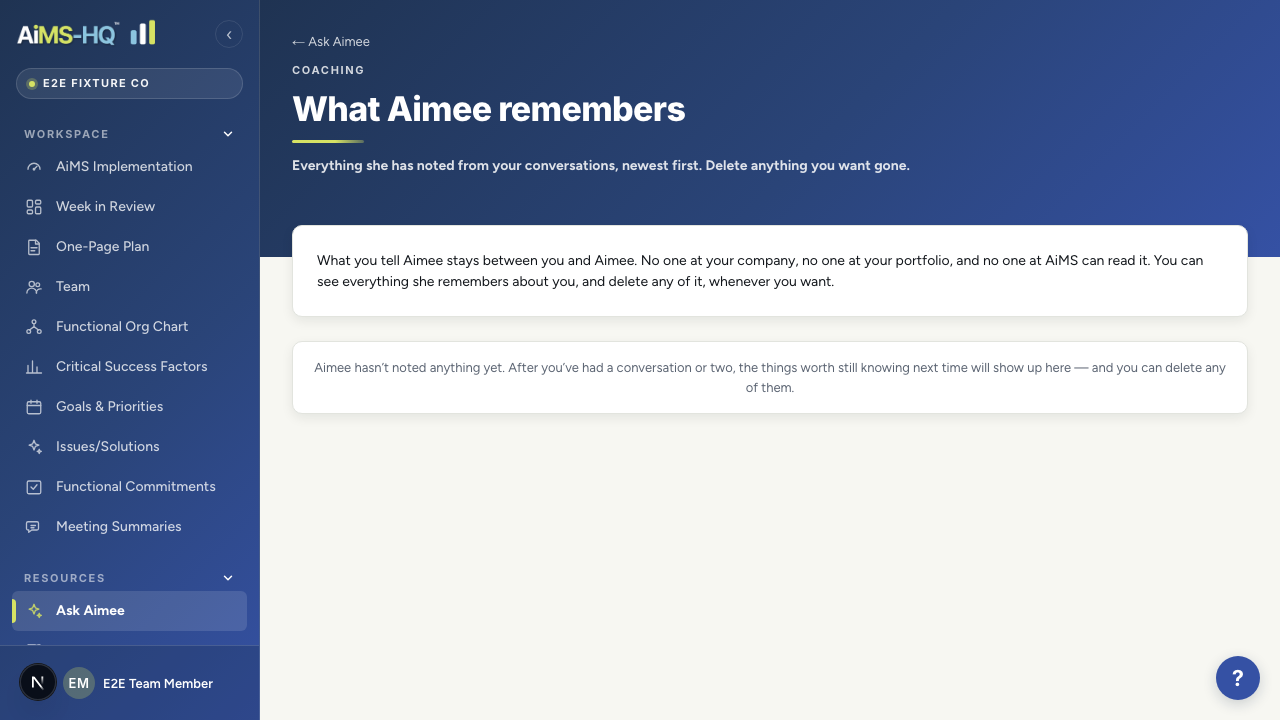
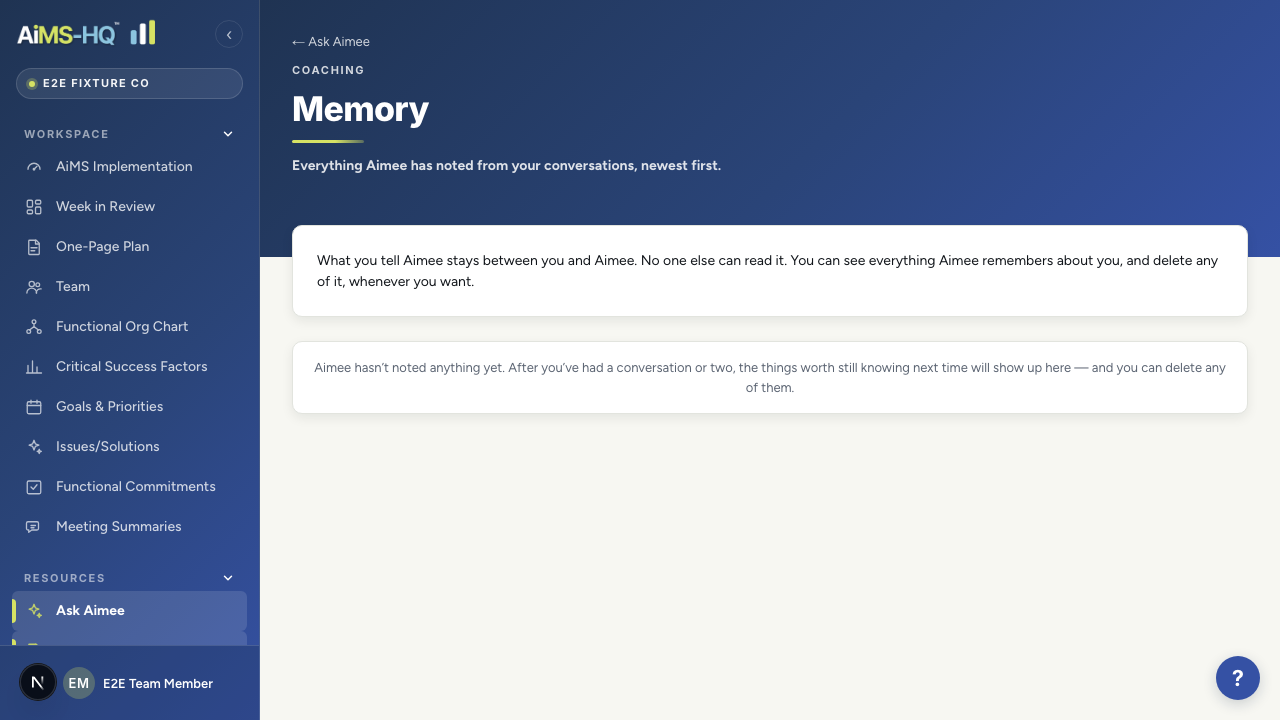
The memory page is called Memory, in both places (#138)
The nav item said "Memory" and the page it opened said "What Aimee
remembers" — two names for one thing, which the help then had to
explain the relationship between. One name now.

"Memory" is a container name rather than a description of today's
contents, so more can go under it later without the label going
stale. The subtitle carries the description instead: "Everything
Aimee has noted from your conversations, newest first."

Changed everywhere it appeared: the page title and metadata, the help
doc's title and heading, and the E2E's heading assertion. One
reference survives on purpose, in the sidebar comment, recording why
the name moved.

Verified in the browser: heading, subtitle, and the nav item all read
Memory, and the page still reaches from Resources.

Docs: spec records the rename and its reason; help/ask-aimee.memory.md
retitled.

Claude-Session: https://claude.ai/code/session_01Aa6y5sWGveSXR6oWcqu6oJ

diff --git a/src/app/(app)/ask-aimee/memory/page.tsx b/src/app/(app)/ask-aimee/memory/page.tsx
@@ -4,7 +4,7 @@ import { PageShell } from "@/components/ui/PageShell";
 import { MemoryList } from "./MemoryList";
 import styles from "./memory.module.css";
 
-// "What Aimee remembers" — the trust surface.
+// Memory — the trust surface.
 //
 // EVERY USER, ABOUT THEMSELVES ONLY. There is no route parameter for
 // whose memory to show and no role branch anywhere on this page:
@@ -17,7 +17,7 @@ import styles from "./memory.module.css";
 // No export. No share. No admin view. Those are not omissions to fill
 // in later: a page that could hand somebody's memory to a second
 // person would undo the thing this page exists to demonstrate.
-export const metadata = { title: "What Aimee remembers" };
+export const metadata = { title: "Memory" };
 
 export default async function CoachMemoryPage() {
   await requireProfile();
@@ -28,8 +28,8 @@ export default async function CoachMemoryPage() {
       backHref="/ask-aimee"
       backLabel="Ask Aimee"
       eyebrow="Coaching"
-      title="What Aimee remembers"
-      subtitle="Everything she has noted from your conversations, newest first."
+      title="Memory"
+      subtitle="Everything Aimee has noted from your conversations, newest first."
     >
       {/* The promise, in the same words as the help content. It sits
           at the top rather than the bottom because it is the reason

diff --git a/src/components/sidebar/Sidebar.tsx b/src/components/sidebar/Sidebar.tsx
@@ -131,12 +131,12 @@ const APP_ITEMS: readonly NavItem[] = [
       // button — too quiet for the page that answers "what does it
       // know about me, and can I delete it". A person should not have
       // to already know it exists to find it.
-      // "Memory" rather than "What Aimee remembers": short enough to
-      // sit beside Ask Aimee and Classroom without wrapping, and a
-      // container name rather than a description of today's contents,
-      // so more can be added under it without the label going stale.
-      // The page keeps the longer title — there it is the heading, and
-      // a heading can afford to be a sentence.
+      // "Memory": a container name rather than a description of
+      // today's contents, so more can be added under it without the
+      // label going stale. The page carries the same name — it was
+      // briefly "What Aimee remembers" there, which meant the nav item
+      // and the page it opened had different names and the help had to
+      // explain the relationship.
       {
         kind: "link",
         label: "Memory",

diff --git a/e2e/coach-memory.spec.ts b/e2e/coach-memory.spec.ts
@@ -242,7 +242,7 @@ test.describe("coach memory", () => {
 
     // ---- The page shows them ----------------------------------
     await page.goto("/ask-aimee/memory");
-    await expect(page.getByRole("heading", { name: /what aimee remembers/i }))
+    await expect(page.getByRole("heading", { name: /^Memory$/ }))
       .toBeVisible({ timeout: 30_000 });
     // The promise is on the page, in the same words as the help.
     await expect(page.getByText(/stays between you and Aimee/i)).toBeVisible();

diff --git a/src/app/(app)/ask-aimee/memory/memory.module.css b/src/app/(app)/ask-aimee/memory/memory.module.css
@@ -1,4 +1,4 @@
-/* "What Aimee remembers" — the trust surface.
+/* Memory — the trust surface.
  *
  * DESIGN SYSTEM ONLY. Every rule below either composes an existing
  * class or uses a token. No hardcoded colour, spacing, radius or type

diff --git a/docs/product-spec.md b/docs/product-spec.md
@@ -147,6 +147,7 @@ The heart of the operating rhythm.
   - **Read-before is recency-banded, capped and budgeted.** Three age bands rather than a continuous decay, because a continuous score invites believing the ordering means more than it does. 12 memories, 120-day window; older ones fall out of the default block and stay reachable by `memory_lookup`. **Measured: ~318 tokens, 4.6% of context assembly** (against a 15% ceiling) — and 41% of the person block alone, reported because the smaller number is the one a favourable denominator would hide behind. Gated on every run by `context-cost.test.ts`. The block is omitted entirely when empty: an empty `<coach_memory>` block tells the model there is a memory system and it is empty, which invites apologising for it.
   - **`memory_lookup` has no identifier vocabulary.** Query and timeframe only — there is no word in its schema for "somebody else", and RLS makes that structural rather than polite. A test asserts the schema cannot express a person id and that the module contains no service client and no `profile_id` filter. It reports an error as an error, never as an absence: "there is no history" and "I could not read the history" are different answers.
   - **Provenance rules** in `prompts/leadership-coach.md`: memory is recall, never fact; `said` may be recalled plainly but not sharpened; `inferred` is tentative; the person overwrites the record when they say it is wrong; thin memory is named. Three worked examples, right against wrong — including a leader correcting the coach, where the right answer is to drop it rather than defend the summary against the person it is about.
+  - **Called "Memory" in the nav AND on the page** (2026-09-14). It was briefly "What Aimee remembers" as the page title with "Memory" in the sidebar, which meant the nav item and the page it opened carried different names and the help had to explain the relationship. One name, in both places. "Memory" is a container name rather than a description of today's contents, so more can be added under it without the label going stale. The subtitle carries the description instead: *"Everything Aimee has noted from your conversations, newest first."*
   - **`POST /api/coach/memory`** deletes the caller's own memory: one conversation's worth with `{ conversationId }`, or all of it with `{ all: true }`. Real capability, not a test affordance — *"you can see everything Aimee remembers about you, and delete any of it"* is the promise part 3 publishes, and this is its mechanism. RLS bounds both to the caller absolutely; there is no argument that reaches another person's memory. Part 3 builds the UI on it.
   - **E2E, run green on the clone 2026-09-14.** The loop closes: conversation one is summarized on entry to conversation two, and the coach recalls it with `said` quoted plainly and `inferred` offered as *"a guess of my own"*. The hygiene rules in `docs/e2e.md` were rewritten by what that run found: cleaning up only what the run CREATED is not enough, because the trigger deliberately summarizes other conversations, so a run writes memory for threads earlier runs left behind. Three rows sat on the clone through several green runs before the count was taken. Cleanup is now all-of-the-caller's, its result is checked, and it fails loudly.
 

diff --git a/docs/help/ask-aimee.memory.md b/docs/help/ask-aimee.memory.md
@@ -1,8 +1,8 @@
 ---
-title: What Aimee remembers
+title: Memory
 ---
 
-# What Aimee remembers
+# Memory
 
 After a conversation with Aimee ends, she notes down the few things
 worth still knowing next time: what you said you'd do, a decision and
